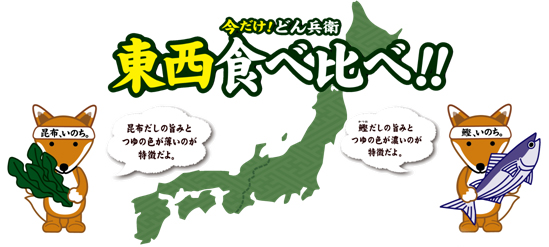
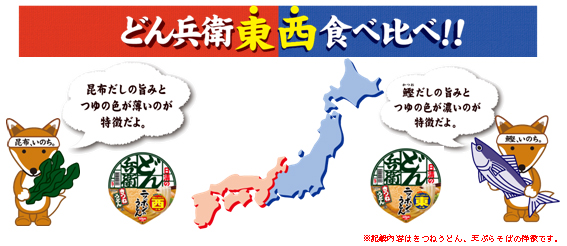
#3 どん兵衛勢力図の画像を差し替える

diff --git a/content/item/20221217/donbei.md b/content/item/20221217/donbei.md
@@ -18,11 +18,11 @@ draft: false
 ## 東西の勢力図
 日清の公式サイトに東西の境目があった。
 
-<div style="max-width: 480px">
-  {{< image src="item/20221217/donbei.jpg" alt="どん兵衛東西食べ比べ!!" href="https://www.nissin.com/jp/news/3148" target="_blank" >}}
+<div style="max-width: 720px">
+  {{< image src="item/20221217/donbei.jpg" alt="どん兵衛東西食べ比べ!!" href="https://www.nissin.com/jp/news/2699" target="_blank" >}}
 </div>
 
-\[出典\] [https://www.nissin.com/jp/news/3148](https://www.nissin.com/jp/news/3148)
+[出典] [https://www.nissin.com/jp/news/2699](https://www.nissin.com/jp/news/2699)
 
 
 ## 私の好み
